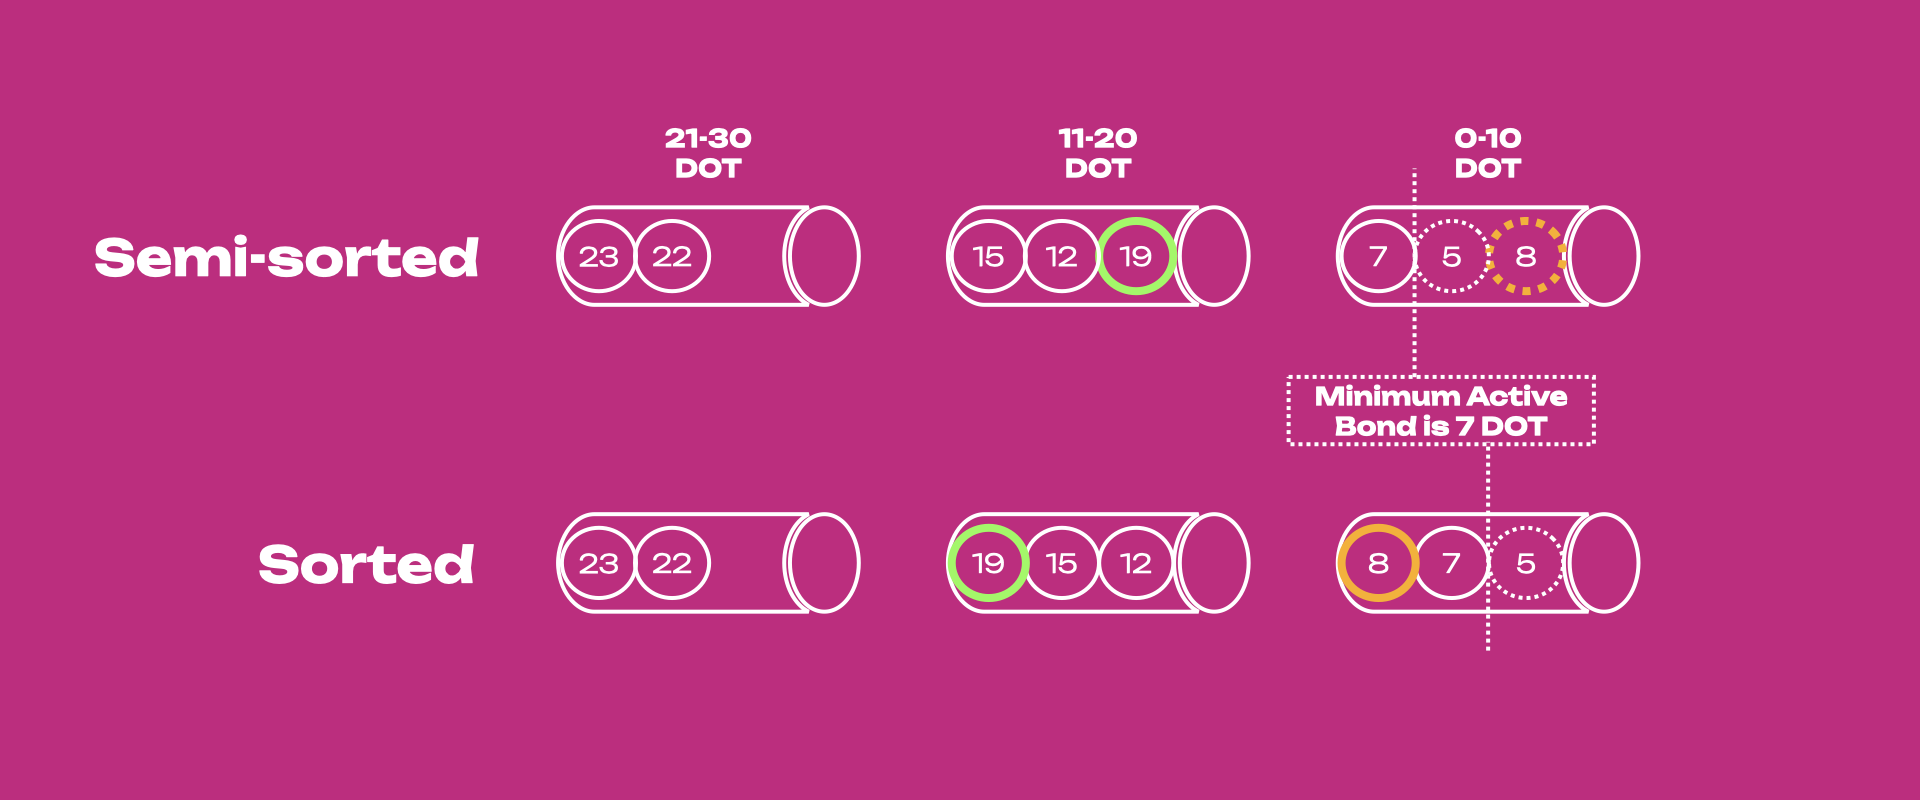
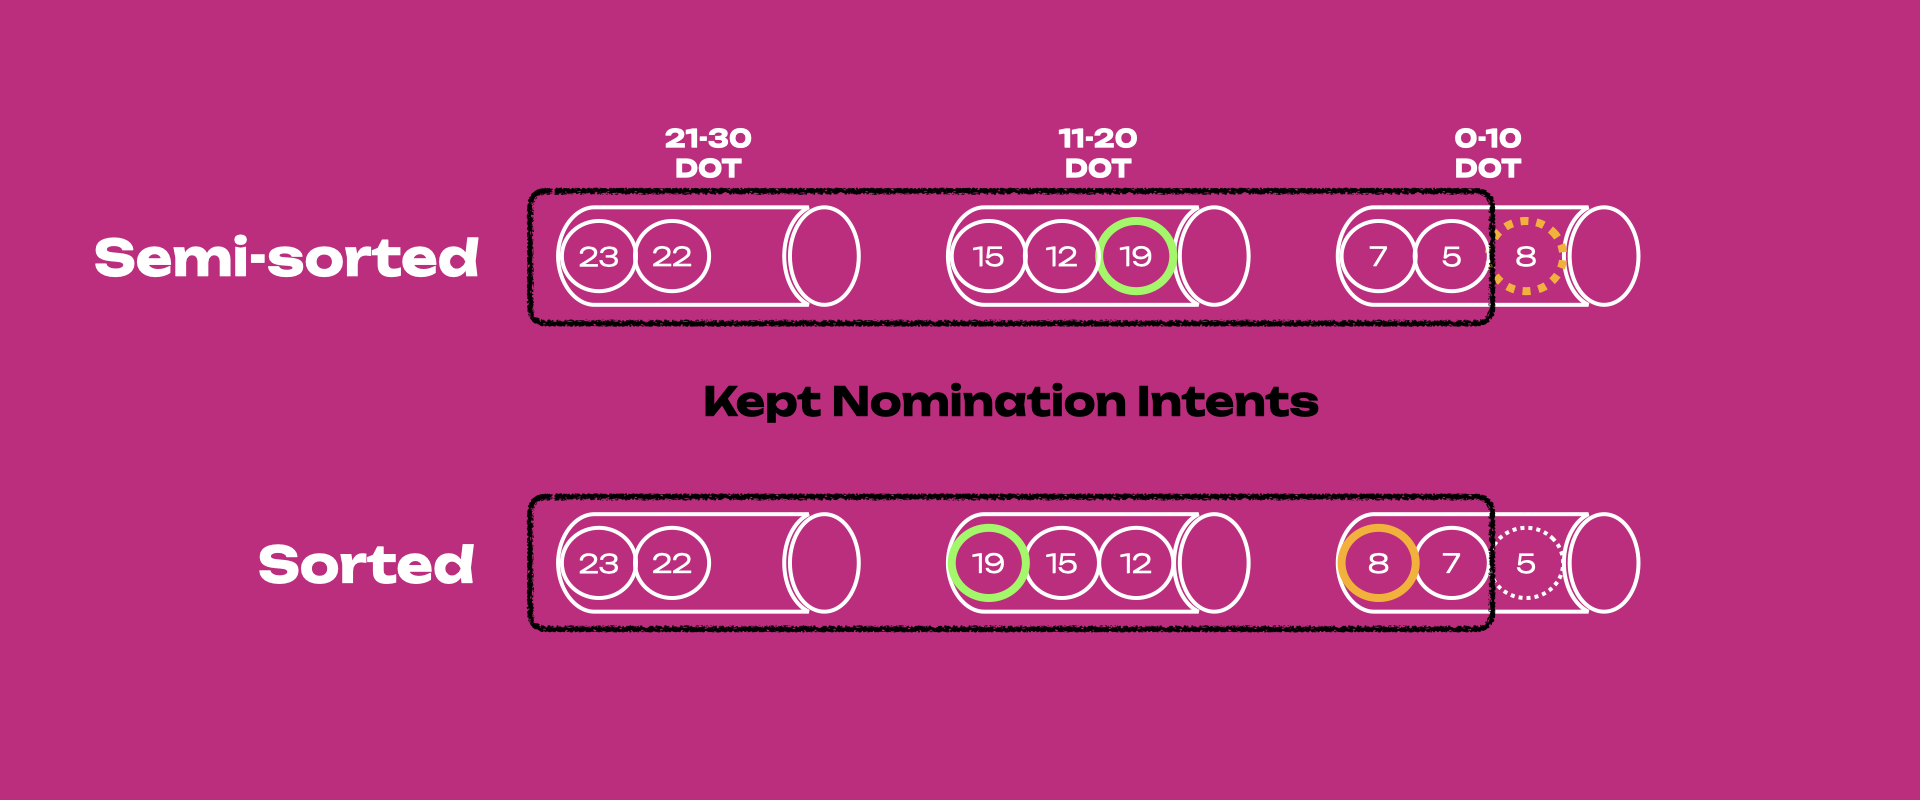
Changed figure

diff --git a/docs/learn/learn-staking-advanced.md b/docs/learn/learn-staking-advanced.md
@@ -169,8 +169,8 @@ period ends, the NPoS election mechanism takes the nomination intents and their 
 input, and it outputs a set of validators. The bags are iterated from the most staked to the least
 staked and only a portion of them . If the accounts are not appropriately sorted, this could leave
 the last touched bag to only be partially iterated. Thus, in some edge cases, the order of the
-members within a bag is important. Continuing with the example used in the previous figures, there a
-8 nodes of which only 7 will be electing nominators. If the bags list stays semi-sorted (i.e. no
+members within a bag is important. Continuing with the example used in the previous figures, there are
+8 nomination intents of which only 7 will be kept. If the bags list stays semi-sorted (i.e. no
 accounts call the `putInFrontOf` and `rebag` extrinsics), the node with 8 DOT in the 3rd bag will
 not receive rewards while the preceding node with 5 DOT will. The node with 8 DOT will earn rewards
 only by putting itself in front of the one with 5 DOT. Note how changing the position of the node
